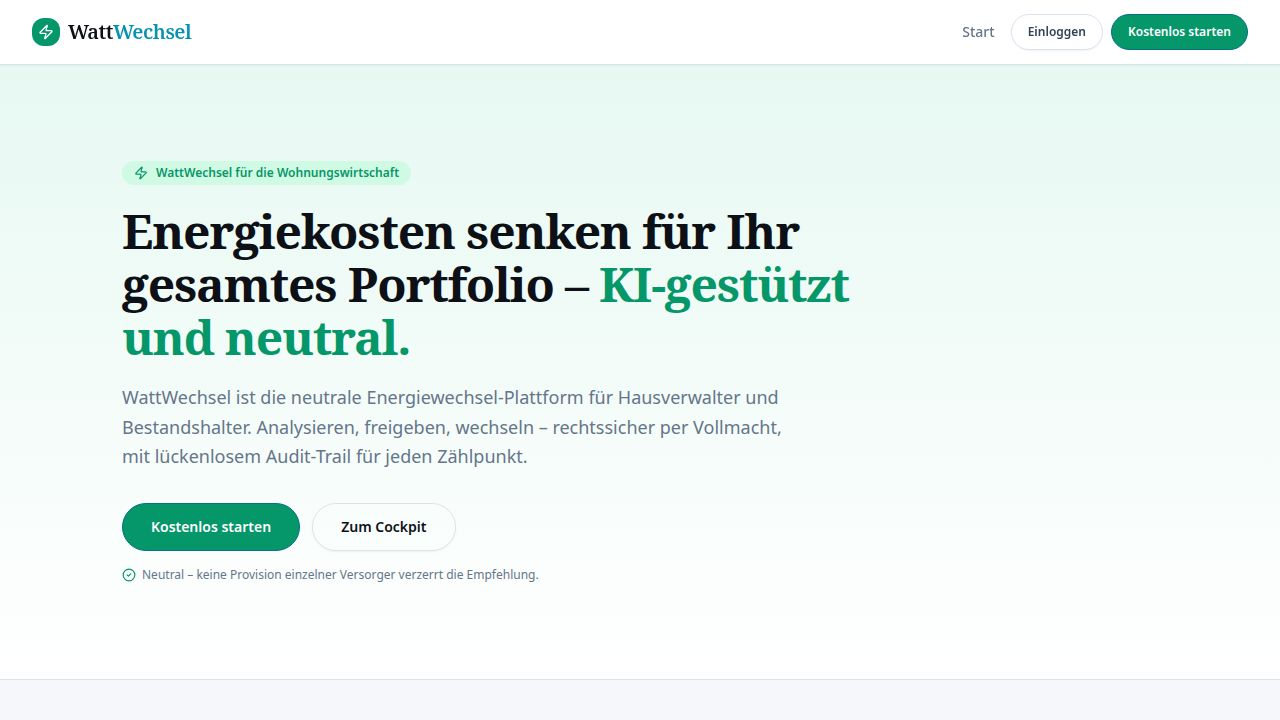
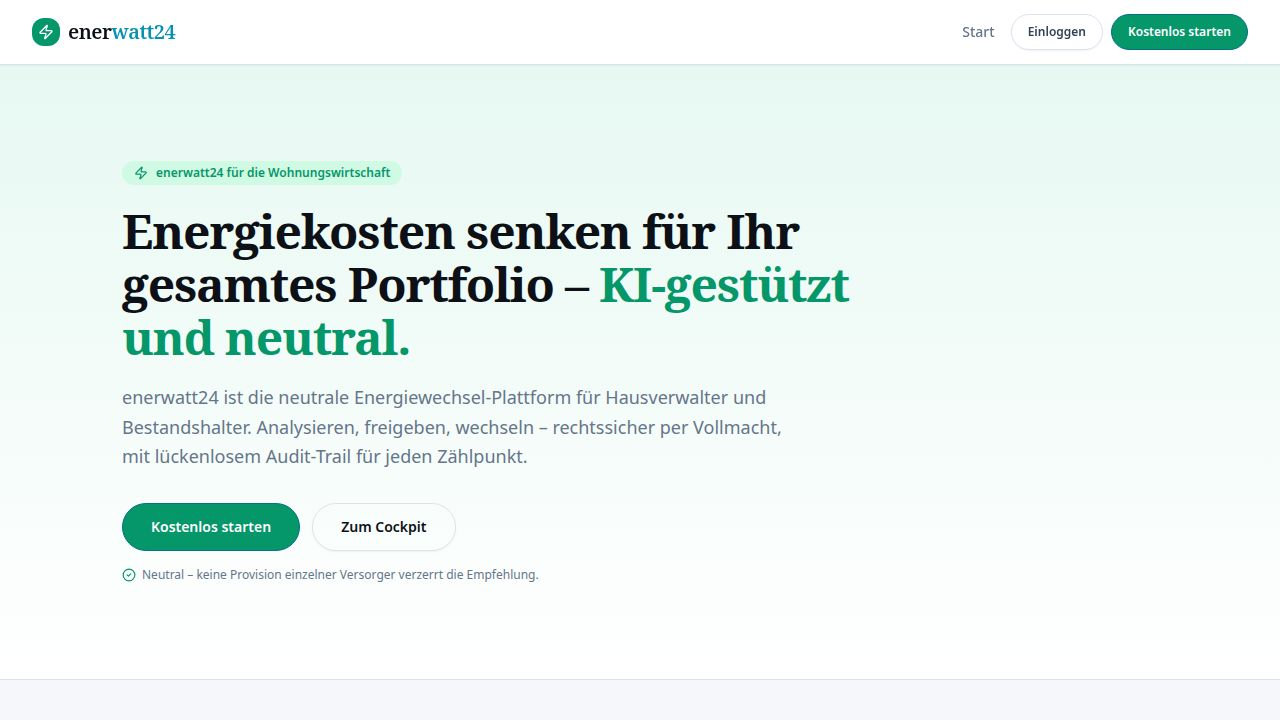
Update the platform's brand name to enerwatt24
Replace all instances of "WattWechsel" with "enerwatt24" across the platform, including UI text, metadata, and configuration files, and update the split wordmark styling in the Navbar and Footer components.

Replit-Commit-Author: Agent
Replit-Commit-Session-Id: 20812473-aae0-42e1-a1de-90e73a076985
Replit-Commit-Checkpoint-Type: full_checkpoint
Replit-Commit-Event-Id: ecf35cf8-b81b-43e2-8fd2-9c5b79ba4f32
Replit-Commit-Screenshot-Url: https://storage.googleapis.com/screenshot-production-us-central1/c577dc67-4c1e-4a52-ae78-f1a259029d26/20812473-aae0-42e1-a1de-90e73a076985/QjZku0L
Replit-Helium-Checkpoint-Created: true

Changed region(s): [[0.0938, 0.5194, 0.625, 0.5806], [0.125, 0.2139, 0.3125, 0.2444], [0.0312, 0.0306, 0.1562, 0.0611]]

diff --git a/artifacts/wattwechsel/index.html b/artifacts/wattwechsel/index.html
@@ -3,15 +3,15 @@
   <head>
     <meta charset="UTF-8" />
     <meta name="viewport" content="width=device-width, initial-scale=1.0, maximum-scale=1" />
-    <title>WattWechsel – Energiewechsel-Cockpit</title>
-    <meta name="description" content="WattWechsel – Energiewechsel-Cockpit — built on Replit. Update this description to reflect the app." />
+    <title>enerwatt24 – Energiewechsel-Cockpit</title>
+    <meta name="description" content="enerwatt24 – Energiewechsel-Cockpit — built on Replit. Update this description to reflect the app." />
     <meta name="robots" content="index, follow" />
-    <meta property="og:title" content="WattWechsel – Energiewechsel-Cockpit" />
-    <meta property="og:description" content="WattWechsel – Energiewechsel-Cockpit — built on Replit. Update this description to reflect the app." />
+    <meta property="og:title" content="enerwatt24 – Energiewechsel-Cockpit" />
+    <meta property="og:description" content="enerwatt24 – Energiewechsel-Cockpit — built on Replit. Update this description to reflect the app." />
     <meta property="og:type" content="website" />
     <meta name="twitter:card" content="summary_large_image" />
-    <meta name="twitter:title" content="WattWechsel – Energiewechsel-Cockpit" />
-    <meta name="twitter:description" content="WattWechsel – Energiewechsel-Cockpit — built on Replit. Update this description to reflect the app." />
+    <meta name="twitter:title" content="enerwatt24 – Energiewechsel-Cockpit" />
+    <meta name="twitter:description" content="enerwatt24 – Energiewechsel-Cockpit — built on Replit. Update this description to reflect the app." />
     <link rel="icon" type="image/svg+xml" href="/favicon.svg" />
     <link rel="preconnect" href="https://fonts.googleapis.com">
     <link rel="preconnect" href="https://fonts.gstatic.com" crossorigin>

diff --git a/artifacts/wattwechsel/src/pages/EnergieLanding.tsx b/artifacts/wattwechsel/src/pages/EnergieLanding.tsx
@@ -17,7 +17,7 @@ const FEATURES = [
   {
     icon: ScanSearch,
     title: "KI-Tarifanalyse",
-    text: "Für jeden Zählpunkt vergleicht WattWechsel den Altvertrag mit dem gesamten Markt und ermittelt die realisierbare Ersparnis – neutral und nachvollziehbar.",
+    text: "Für jeden Zählpunkt vergleicht enerwatt24 den Altvertrag mit dem gesamten Markt und ermittelt die realisierbare Ersparnis – neutral und nachvollziehbar.",
   },
   {
     icon: FileSignature,
@@ -38,7 +38,7 @@ const FEATURES = [
 
 const STEPS = [
   { n: "1", title: "Portfolio anlegen", text: "Objekte, Zählpunkte und laufende Verträge erfassen – manuell oder per Import." },
-  { n: "2", title: "Vollmacht festlegen", text: "Pro Objekt entscheiden Sie, ob WattWechsel nur vorschlägt oder selbst wechselt." },
+  { n: "2", title: "Vollmacht festlegen", text: "Pro Objekt entscheiden Sie, ob enerwatt24 nur vorschlägt oder selbst wechselt." },
   { n: "3", title: "KI analysiert", text: "Neutrale Marktanalyse je Zählpunkt mit konkreter Euro-Ersparnis und Begründung." },
   { n: "4", title: "Sie behalten die Kontrolle", text: "Freigeben, ablehnen oder widersprechen – alles dokumentiert im Cockpit." },
 ];
@@ -58,14 +58,14 @@ export default function EnergieLanding() {
         <div className="max-w-[1100px] mx-auto px-4 sm:px-8 py-16 sm:py-24">
           <div className="inline-flex items-center gap-2 rounded-full bg-[var(--klard-green-l)] px-3 py-1 text-xs font-semibold text-[var(--klard-green)] mb-5">
             <Zap className="h-3.5 w-3.5" aria-hidden="true" />
-            WattWechsel für die Wohnungswirtschaft
+            enerwatt24 für die Wohnungswirtschaft
           </div>
           <h1 className="text-3xl sm:text-5xl font-bold tracking-tight text-foreground max-w-3xl leading-[1.1]">
             Energiekosten senken für Ihr gesamtes Portfolio –{" "}
             <span className="text-[var(--klard-green)]">KI-gestützt und neutral.</span>
           </h1>
           <p className="mt-5 text-base sm:text-lg text-muted-foreground max-w-2xl leading-relaxed">
-            WattWechsel ist die neutrale Energiewechsel-Plattform für Hausverwalter und
+            enerwatt24 ist die neutrale Energiewechsel-Plattform für Hausverwalter und
             Bestandshalter. Analysieren, freigeben, wechseln – rechtssicher per Vollmacht,
             mit lückenlosem Audit-Trail für jeden Zählpunkt.
           </p>
@@ -116,7 +116,7 @@ export default function EnergieLanding() {
       {/* How it works */}
       <section className="bg-[var(--klard-bg)] border-y border-border">
         <div className="max-w-[1100px] mx-auto px-4 sm:px-8 py-16 w-full">
-          <h2 className="text-2xl font-bold text-foreground text-center">So funktioniert WattWechsel</h2>
+          <h2 className="text-2xl font-bold text-foreground text-center">So funktioniert enerwatt24</h2>
           <p className="mt-2 text-center text-muted-foreground max-w-xl mx-auto">
             In vier Schritten vom unübersichtlichen Vertragsbestand zum optimierten Portfolio.
           </p>

diff --git a/artifacts/api-server/src/routes/account.integration.test.ts b/artifacts/api-server/src/routes/account.integration.test.ts
@@ -288,7 +288,7 @@ async function seedFullAccount(userId: string): Promise<{ providerId: number }> 
     intake: { x: 1 },
   });
 
-  // --- Energiewechsel (WattWechsel) portfolio (cascades off verwalter) ----
+  // --- Energiewechsel (enerwatt24) portfolio (cascades off verwalter) ----
   const [verwalter] = await db
     .insert(verwalterTable)
     .values({ clerkUserId: userId, firma: "Lösch Hausverwaltung" })
@@ -487,7 +487,7 @@ describe("DELETE /api/account/me — orphan protection", () => {
       expect(res.body).toEqual({ deleted: true });
 
       // Every user-keyed table (incl. cascade-only invoices/blocked_slots and the
-      // verwalter-cascaded WattWechsel portfolio) is now empty for this user.
+      // verwalter-cascaded enerwatt24 portfolio) is now empty for this user.
       expect(await countAllRows(userId, providerId)).toBe(0);
 
       // GDPR: every email_log row holding this user's email address (recipient)
@@ -496,7 +496,7 @@ describe("DELETE /api/account/me — orphan protection", () => {
       expect(await countEmailLogRows(userId)).toBe(0);
       expect(clerkSpies.getUser).toHaveBeenCalledWith(userId);
 
-      // WattWechsel portfolio rows cascaded away with the verwalter.
+      // enerwatt24 portfolio rows cascaded away with the verwalter.
       const [verw] = await db
         .select()
         .from(verwalterTable)

diff --git a/artifacts/api-server/src/routes/account.ts b/artifacts/api-server/src/routes/account.ts
@@ -75,7 +75,7 @@ router.post("/account/role", async (req, res): Promise<void> => {
 /**
  * Permanently delete the authenticated user's entire Klard account — provider
  * profile (Berater), customer profile (Kunde), all bookings, reviews and the
- * Energiewechsel (WattWechsel) portfolio — and the Clerk auth user.
+ * Energiewechsel (enerwatt24) portfolio — and the Clerk auth user.
  *
  * This is the standard self-service "Konto löschen" flow: it removes every
  * trace of the user across roles, then deletes the login itself so they are
@@ -195,7 +195,7 @@ router.delete("/account/me", async (req, res): Promise<void> => {
       // Förderschiene (Gebäudereport + Energieausweis) orders/reports.
       await tx.delete(foerderschieneReportsTable).where(eq(foerderschieneReportsTable.userId, userId));
       await tx.delete(energieausweisOrdersTable).where(eq(energieausweisOrdersTable.userId, userId));
-      // Energiewechsel (WattWechsel) portfolio cascades off verwalter.
+      // Energiewechsel (enerwatt24) portfolio cascades off verwalter.
       await tx.delete(verwalterTable).where(eq(verwalterTable.clerkUserId, userId));
       // Strict-role-separation record (claimed customer | provider role).
       await tx.delete(userRolesTable).where(eq(userRolesTable.clerkUserId, userId));

diff --git a/artifacts/wattwechsel/src/components/Footer.tsx b/artifacts/wattwechsel/src/components/Footer.tsx
@@ -11,7 +11,7 @@ export function Footer() {
               <Zap className="h-4 w-4 text-white" aria-hidden="true" />
             </span>
             <span className="klard-logo text-[1.3rem] text-white">
-              Watt<span className="text-[var(--klard-green)]">Wechsel</span>
+              ener<span className="text-[var(--klard-green)]">watt24</span>
             </span>
           </div>
           <p className="text-[0.78rem] leading-[1.7] max-w-[280px]">
@@ -36,7 +36,7 @@ export function Footer() {
       </div>
 
       <div className="max-w-[1100px] mx-auto border-t border-white/10 pt-6 text-center text-[0.7rem]">
-        © {new Date().getFullYear()} WattWechsel · Neutrale Energiewechsel-Plattform
+        © {new Date().getFullYear()} enerwatt24 · Neutrale Energiewechsel-Plattform
       </div>
     </footer>
   );

diff --git a/artifacts/wattwechsel/src/pages/EnergieOnboarding.tsx b/artifacts/wattwechsel/src/pages/EnergieOnboarding.tsx
@@ -87,7 +87,7 @@ export default function EnergieOnboarding() {
         },
       });
       qc.invalidateQueries({ queryKey: getGetMyVerwalterQueryKey() });
-      toast({ title: "Willkommen bei WattWechsel!", description: "Ihr Konto wurde angelegt." });
+      toast({ title: "Willkommen bei enerwatt24!", description: "Ihr Konto wurde angelegt." });
       setLocation("/portfolio");
     } catch (err: unknown) {
       const msg = err instanceof Error ? err.message : "Konto konnte nicht erstellt werden.";
@@ -115,7 +115,7 @@ export default function EnergieOnboarding() {
           <div className="inline-flex items-center justify-center w-14 h-14 rounded-2xl bg-[var(--klard-green-l)] mb-4">
             <Zap className="h-7 w-7 text-[var(--klard-green)]" aria-hidden="true" />
           </div>
-          <h1 className="text-2xl font-bold text-foreground">WattWechsel einrichten</h1>
+          <h1 className="text-2xl font-bold text-foreground">enerwatt24 einrichten</h1>
           <p className="text-muted-foreground mt-2">
             Legen Sie Ihr Verwalter-Konto an, um Ihr Energieportfolio zu verwalten.
           </p>

diff --git a/artifacts/wattwechsel/src/components/Navbar.tsx b/artifacts/wattwechsel/src/components/Navbar.tsx
@@ -31,7 +31,7 @@ export function Navbar() {
           <span className="inline-flex items-center justify-center w-7 h-7 rounded-lg bg-[var(--klard-green)]">
             <Zap className="h-4 w-4 text-white" aria-hidden="true" />
           </span>
-          <span className="klard-logo text-xl">Watt<span>Wechsel</span></span>
+          <span className="klard-logo text-xl">ener<span>watt24</span></span>
         </Link>
 
         <nav className="hidden lg:flex items-center gap-5 text-sm font-medium ml-auto">

diff --git a/artifacts/wattwechsel/src/components/energie/VollmachtenTab.tsx b/artifacts/wattwechsel/src/components/energie/VollmachtenTab.tsx
@@ -51,7 +51,7 @@ export function VollmachtenTab({ objekte }: { objekte: PortfolioObjekt[] }) {
         <div>
           <h2 className="text-lg font-semibold text-foreground">Vollmachten</h2>
           <p className="text-sm text-muted-foreground">
-            Legen Sie fest, in welchem Umfang WattWechsel für Sie handeln darf. Jederzeit widerrufbar.
+            Legen Sie fest, in welchem Umfang enerwatt24 für Sie handeln darf. Jederzeit widerrufbar.
           </p>
         </div>
         <VollmachtDialog objekte={objekte} />

diff --git a/artifacts/wattwechsel/src/components/energie/WechselTab.tsx b/artifacts/wattwechsel/src/components/energie/WechselTab.tsx
@@ -227,7 +227,7 @@ function AnalyseDialog({ objekte }: { objekte: PortfolioObjekt[] }) {
         <DialogHeader>
           <DialogTitle>KI-Tarifanalyse</DialogTitle>
           <DialogDescription>
-            Wählen Sie einen Zählpunkt. WattWechsel vergleicht den Markt und erstellt eine neutrale Empfehlung.
+            Wählen Sie einen Zählpunkt. enerwatt24 vergleicht den Markt und erstellt eine neutrale Empfehlung.
           </DialogDescription>
         </DialogHeader>
         {options.length === 0 ? (

diff --git a/artifacts/wattwechsel/src/pages/EnergiePortfolio.tsx b/artifacts/wattwechsel/src/pages/EnergiePortfolio.tsx
@@ -63,7 +63,7 @@ export default function EnergiePortfolio() {
             <div>
               <h1 className="text-2xl font-bold text-foreground" data-testid="text-firma">{verwalter.firma}</h1>
               <p className="text-sm text-muted-foreground">
-                WattWechsel Cockpit ·{" "}
+                enerwatt24 Cockpit ·{" "}
                 {VERWALTER_TYP_LABELS[verwalter.typ as VerwalterTyp] ?? verwalter.typ}
               </p>
             </div>

diff --git a/lib/db/src/schema/energie.ts b/lib/db/src/schema/energie.ts
@@ -13,7 +13,7 @@ import { createInsertSchema } from "drizzle-zod";
 import { z } from "zod/v4";
 
 /**
- * WattWechsel – Energiewechsel für die Wohnungswirtschaft.
+ * enerwatt24 – Energiewechsel für die Wohnungswirtschaft.
  * Portfolio-Logik: Verwalter → Objekt → Zählpunkt → Vertrag.
  * Compliance-by-Design: Vollmacht granular, widerrufbar, auditierbar.
  */

diff --git a/lib/energie-wechsel/src/types.ts b/lib/energie-wechsel/src/types.ts
@@ -1,5 +1,5 @@
 /**
- * WattWechsel – gemeinsame Typen für Energiewechsel-Logik.
+ * enerwatt24 – gemeinsame Typen für Energiewechsel-Logik.
  * Compliance-kritische Status & Modi an einer Stelle definiert.
  */
 